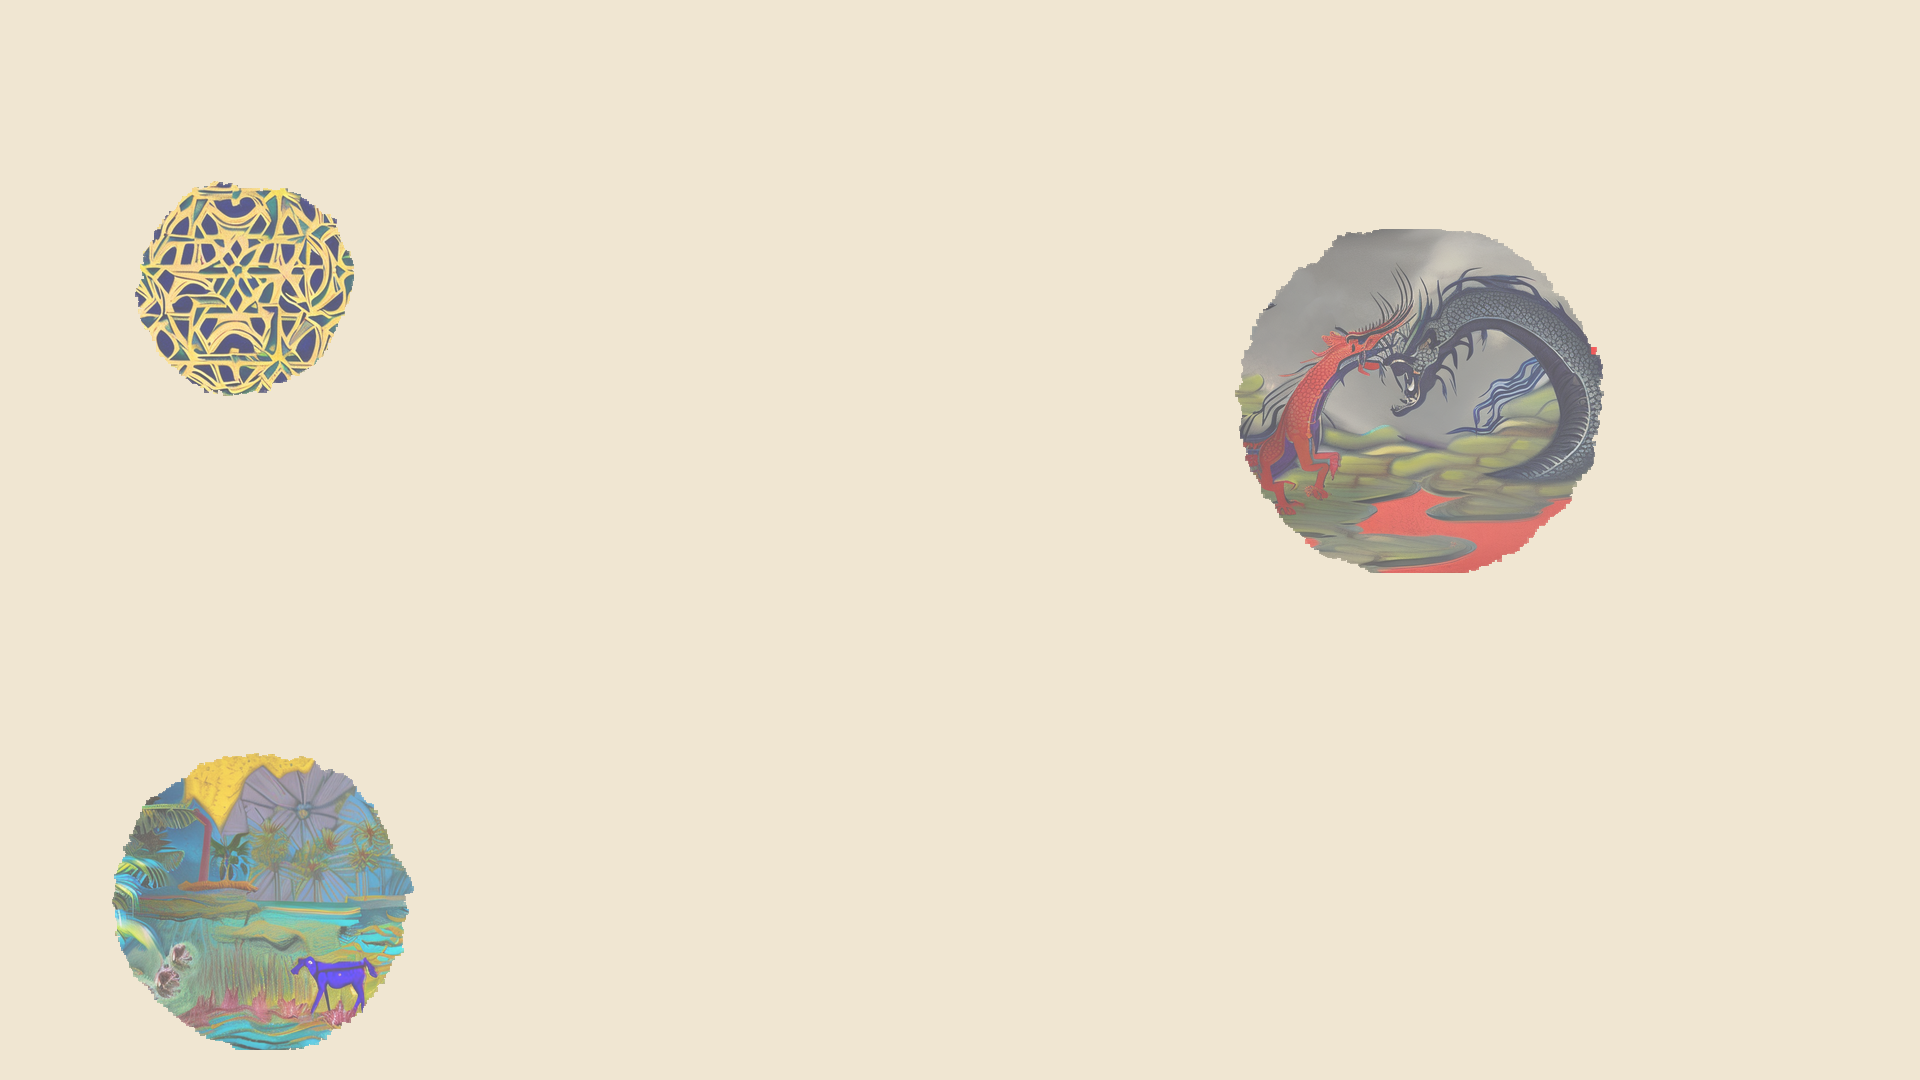
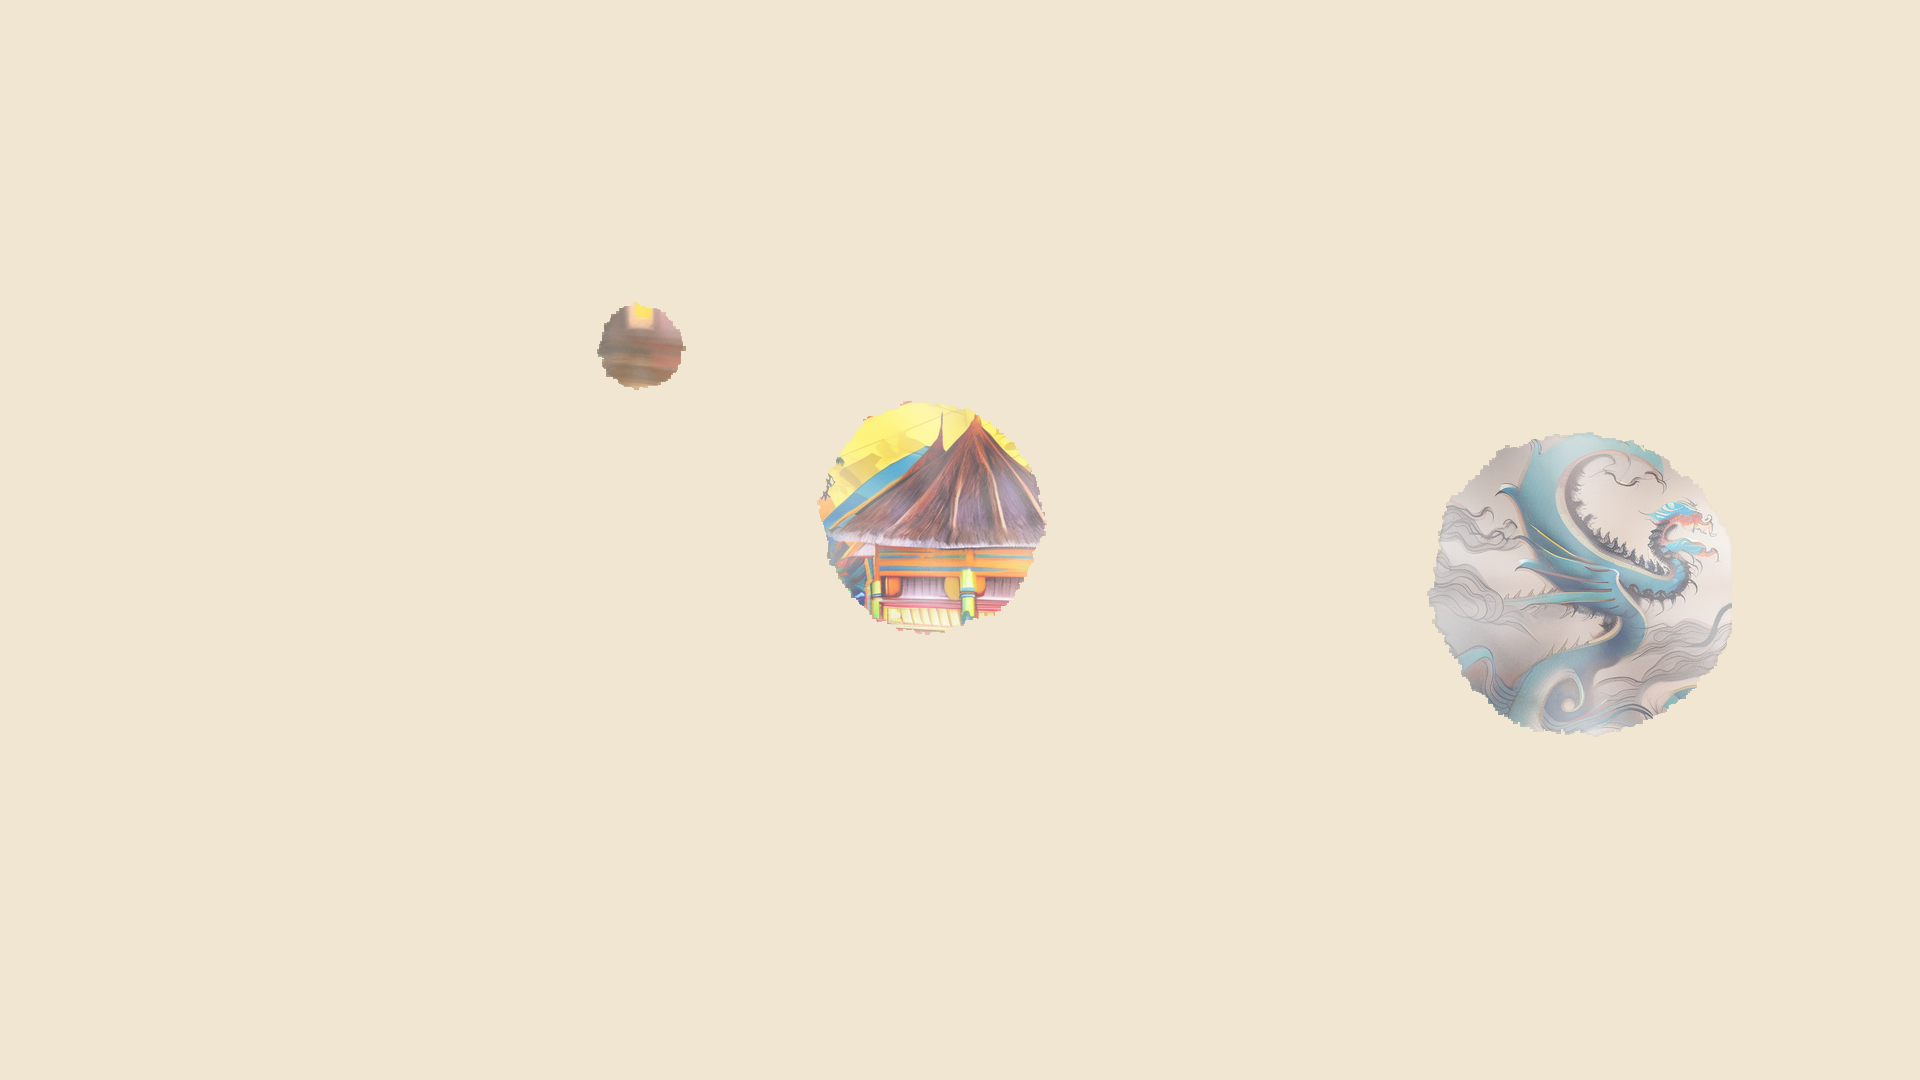
update agent drawing method (not really seen yet)

diff --git a/project.py b/project.py
@@ -5,6 +5,9 @@ import os
 # Open AI GPT-4
 import openai
 
+# For agent
+import math
+
 # Handwriting OCR
 import cv2
 import numpy as np
@@ -81,6 +84,14 @@ class Agent:
         center_y = self.origin_y + self.image.height // 2
         self.queue.append((center_x, center_y))
 
+        # Add shape mode for drawing variation
+        self.shape_mode = random.choice([
+            "circle_fade", 
+            "soft_square", 
+            "starburst", 
+            "organic"
+        ])
+
     def update(self, canvas):
         if not self.queue:
             return
@@ -102,15 +113,50 @@ class Agent:
             local_y + self.patch_size
         ))
 
+        # Calculate shape-based fade
+        center_x = self.origin_x + self.image.width // 2
+        center_y = self.origin_y + self.image.height // 2
+        dx = abs(x - center_x)
+        dy = abs(y - center_y)
+        dist = math.sqrt(dx ** 2 + dy ** 2)
+        max_dist = math.sqrt((self.image.width / 2) ** 2 + (self.image.height / 2) ** 2)
+
+        # Shape-based fading logic
+        if self.shape_mode == "circle_fade":
+            fade = max(0.15, 1.0 - (dist / max_dist) ** 1.2)
+
+        elif self.shape_mode == "soft_square":
+            fx = dx / (self.image.width / 2)
+            fy = dy / (self.image.height / 2)
+            fade = max(0.15, 1.0 - max(fx, fy) ** 1.8)
+
+        elif self.shape_mode == "starburst":
+            angle = math.atan2(dy, dx + 1e-5)  # prevent div by 0
+            wave = (math.sin(angle * 5) + 1) / 2  # 5-point burst
+            fade = max(0.15, 1.0 - (dist / max_dist) * wave)
+
+        elif self.shape_mode == "organic":
+            noise = random.uniform(0.85, 1.0)
+            fade = max(0.1, (1.0 - (dist / max_dist)) * noise)
+
+        else:
+            fade = 1.0  # fallback
+
+        # Apply fade to alpha channel
+        patch = patch.copy()
+        r, g, b, a = patch.split()
+        a = a.point(lambda p: int(p * fade))
+        patch.putalpha(a)
+
+        # Paste patch
         canvas.paste(patch, (x, y), patch)
 
-        # Expand outward with noisy radial directions
+        # Expand in noisy radial directions
         for _ in range(6):
             angle = random.uniform(0, 2 * np.pi)
             radius = random.randint(1, self.patch_size)
-            dx = int(radius * np.cos(angle))
-            dy = int(radius * np.sin(angle))
-            nx, ny = x + dx, y + dy
+            nx = x + int(radius * math.cos(angle))
+            ny = y + int(radius * math.sin(angle))
 
             if (nx, ny) not in self.visited:
                 if self.origin_x <= nx < self.origin_x + self.image.width - self.patch_size and \
